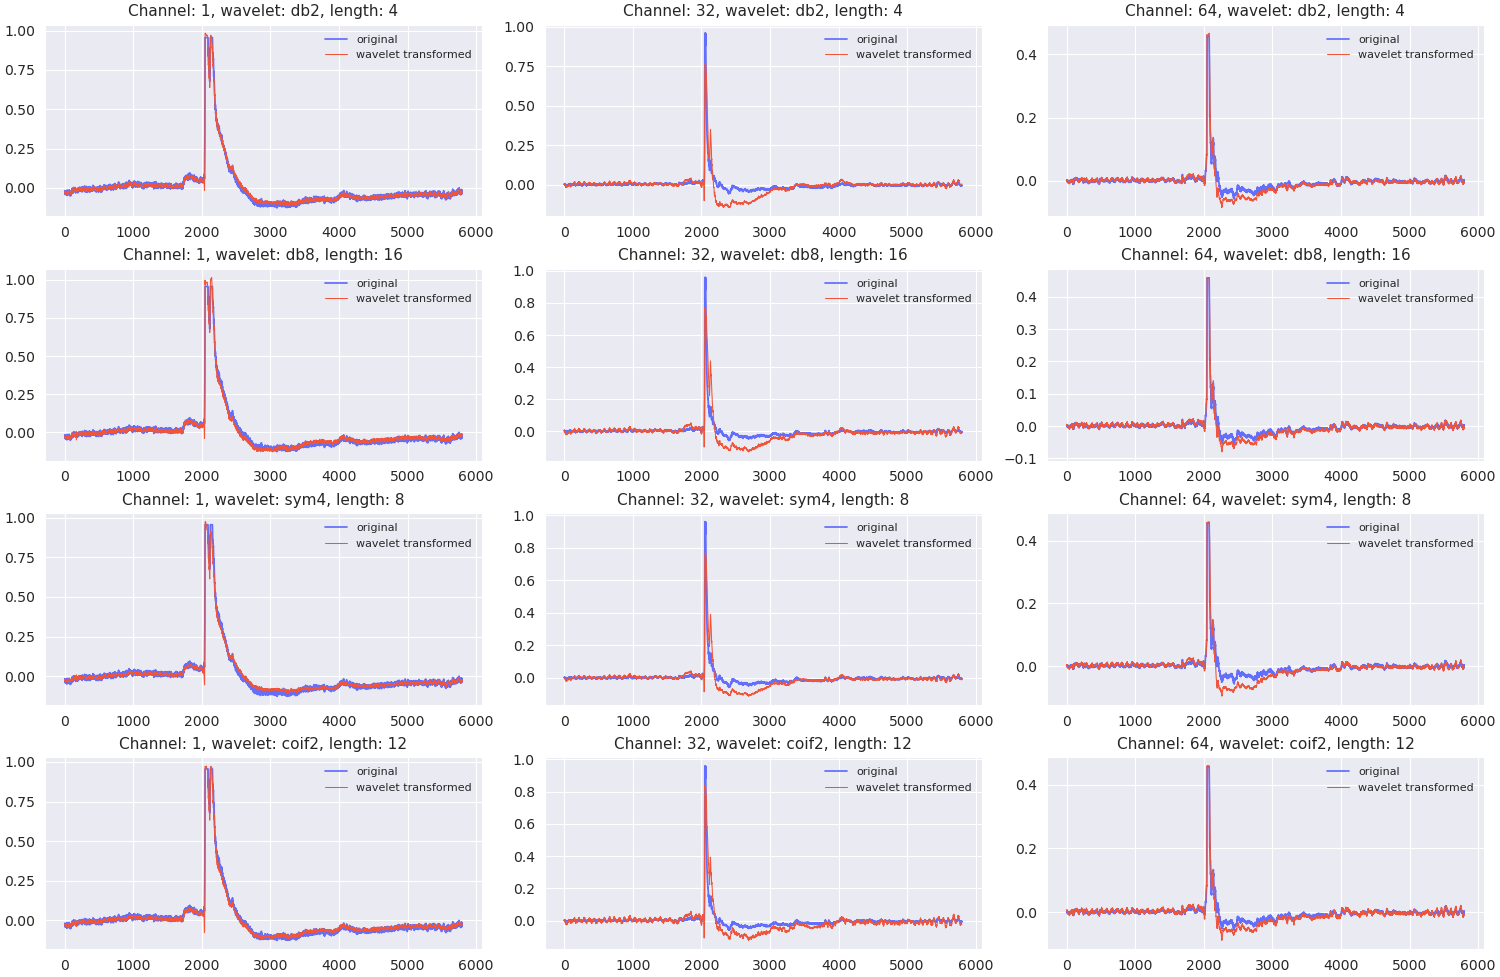
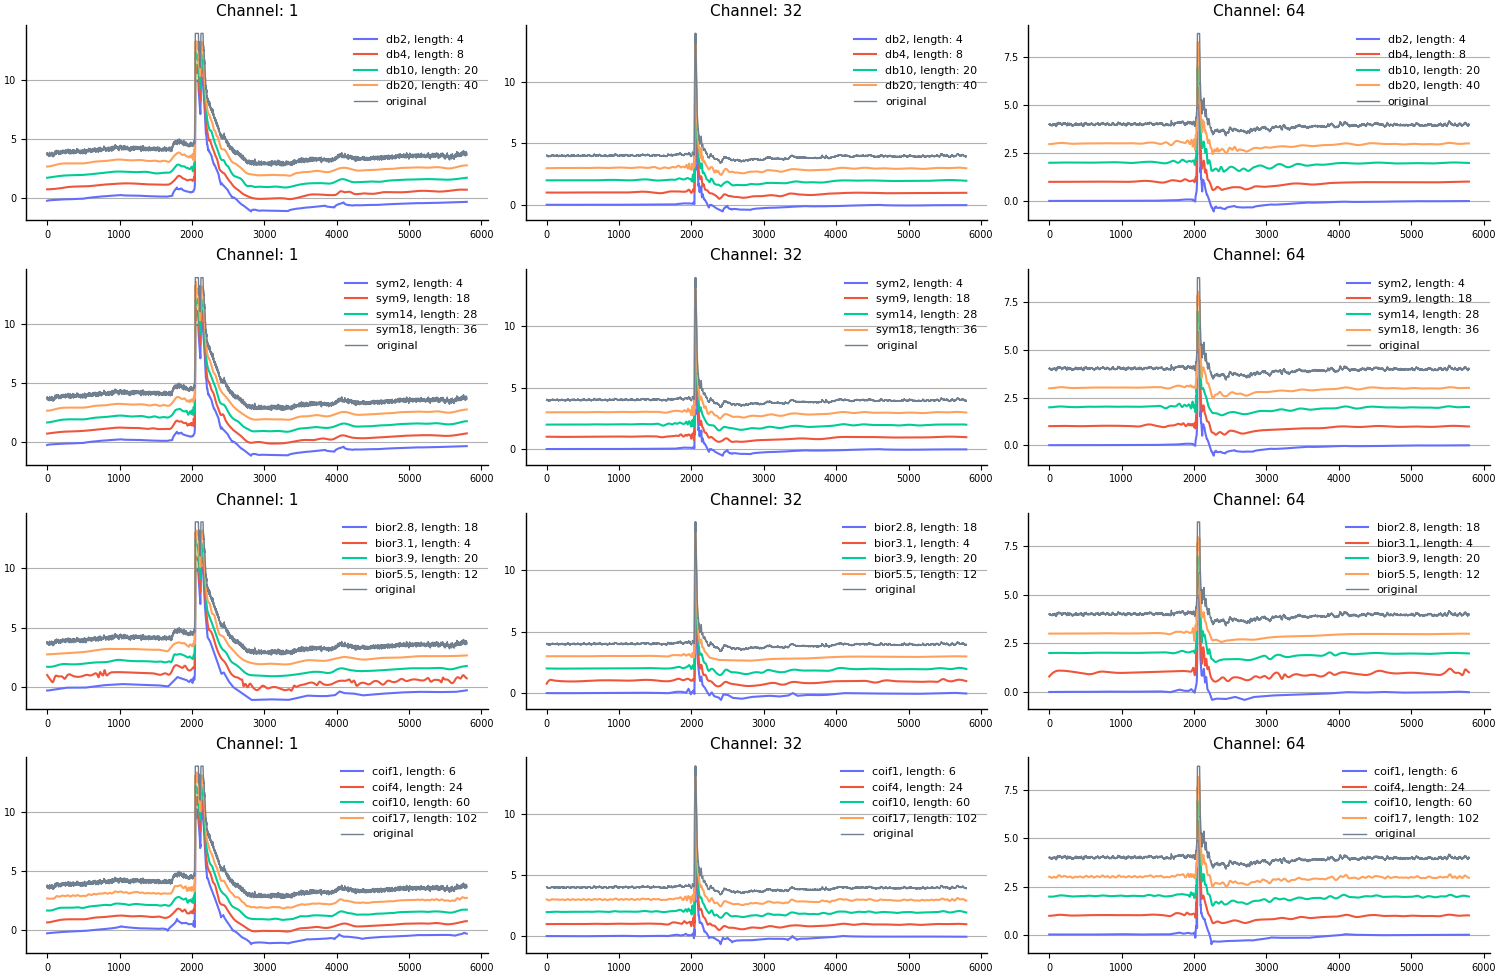
Fix the wavelet transformed signal.

diff --git a/wv_transform.py b/wv_transform.py
@@ -3,42 +3,64 @@ import pywt
 import matplotlib.pyplot as plt
 import seaborn as sns
 
-# plt.style.use("/home/lakshya/plt_custom.mplstyle")
-sns.set_style("darkgrid")
-sns.set_palette("deep")
+plt.style.use("/home/lakshya/plt_custom.mplstyle")
+# sns.set_style("darkgrid")
+# sns.set_palette("deep")
 
 if __name__ == "__main__":
     signal = np.load("single_elm_event.npy")
-    signal = signal / np.max(signal)
+    # signal = signal / np.max(signal)
+    print(signal.shape)
 
     channels = [0, 31, 63]
-    wavelets = ["db2", "db8", "sym4", "coif2"]
-    lengths = [4, 16, 8, 12]
-    fig, axs = plt.subplots(4, 3, figsize=(15, 18), constrained_layout=True)
+    wavelet_fam = {
+        "db": ["db2", "db4", "db10", "db20"],
+        "sym": ["sym2", "sym9", "sym14", "sym18"],
+        "bior": ["bior2.8", "bior3.1", "bior3.9", "bior5.5"],
+        "coif": ["coif1", "coif4", "coif10", "coif17"],
+    }
+    wavelets = ["db2", "db4", "sym4", "coif2"]
+    fig, axs = plt.subplots(4, 3, figsize=(15, 21), constrained_layout=True)
     axs = axs.flatten()
 
+    offsets = [0, 1, 2, 3, 4]
     idx = 0
-    for wavelet, length in zip(wavelets, lengths):
-        coeff = pywt.wavedec(signal, wavelet=wavelet, mode="symmetric")
-        uthresh = 1
-        coeff[1:] = (
-            pywt.threshold(i, value=uthresh, mode="hard") for i in coeff[1:]
-        )
-        reconst_signal = pywt.waverec(coeff, wavelet=wavelet, mode="symmetric")
+    for wv_fam in list(wavelet_fam.keys()):
+        reconst_signals = {}
+        print(f"Using wavelet family: {wv_fam}")
+        for wavelet in wavelet_fam[wv_fam]:
+            print(f"Using wavelet: {wavelet}")
+            coeff = pywt.wavedec(
+                signal, wavelet=wavelet, mode="symmetric", axis=0
+            )
+            uthresh = 1
+            coeff[1:] = (
+                pywt.threshold(i, value=uthresh, mode="hard") for i in coeff[1:]
+            )
+            reconst_signal = pywt.waverec(
+                coeff, wavelet=wavelet, mode="symmetric", axis=0
+            )
+            reconst_signals[wavelet] = reconst_signal
         for ch in channels:
             ax = axs[idx]
-            ax.plot(signal[:, ch], label="original", c="#636EFA", lw=1.25)
+            plt.setp([ax.get_xticklabels(), ax.get_yticklabels()], fontsize=7)
+            for (k, v), off in zip(reconst_signals.items(), offsets):
+                w = pywt.Wavelet(k)
+                ax.plot(
+                    v[:, ch] + off, label=f"{k}, length: {w.dec_len}", lw=1.5
+                )
             ax.plot(
-                reconst_signal[:, ch],
-                label="wavelet transformed",
-                c="#EF553B",
-                lw=0.75,
+                signal[:, ch] + offsets[-1],
+                label="original",
+                lw=1.0,
+                c="slategray",
             )
             ax.set_title(
-                f"Channel: {ch + 1}, wavelet: {wavelet}, length: {length}",
+                f"Channel: {ch + 1}",
                 fontsize=11,
             )
             ax.legend(fontsize=8, frameon=False)
+            ax.grid(axis="y")
             idx += 1
     # plt.tight_layout()
     plt.show()
